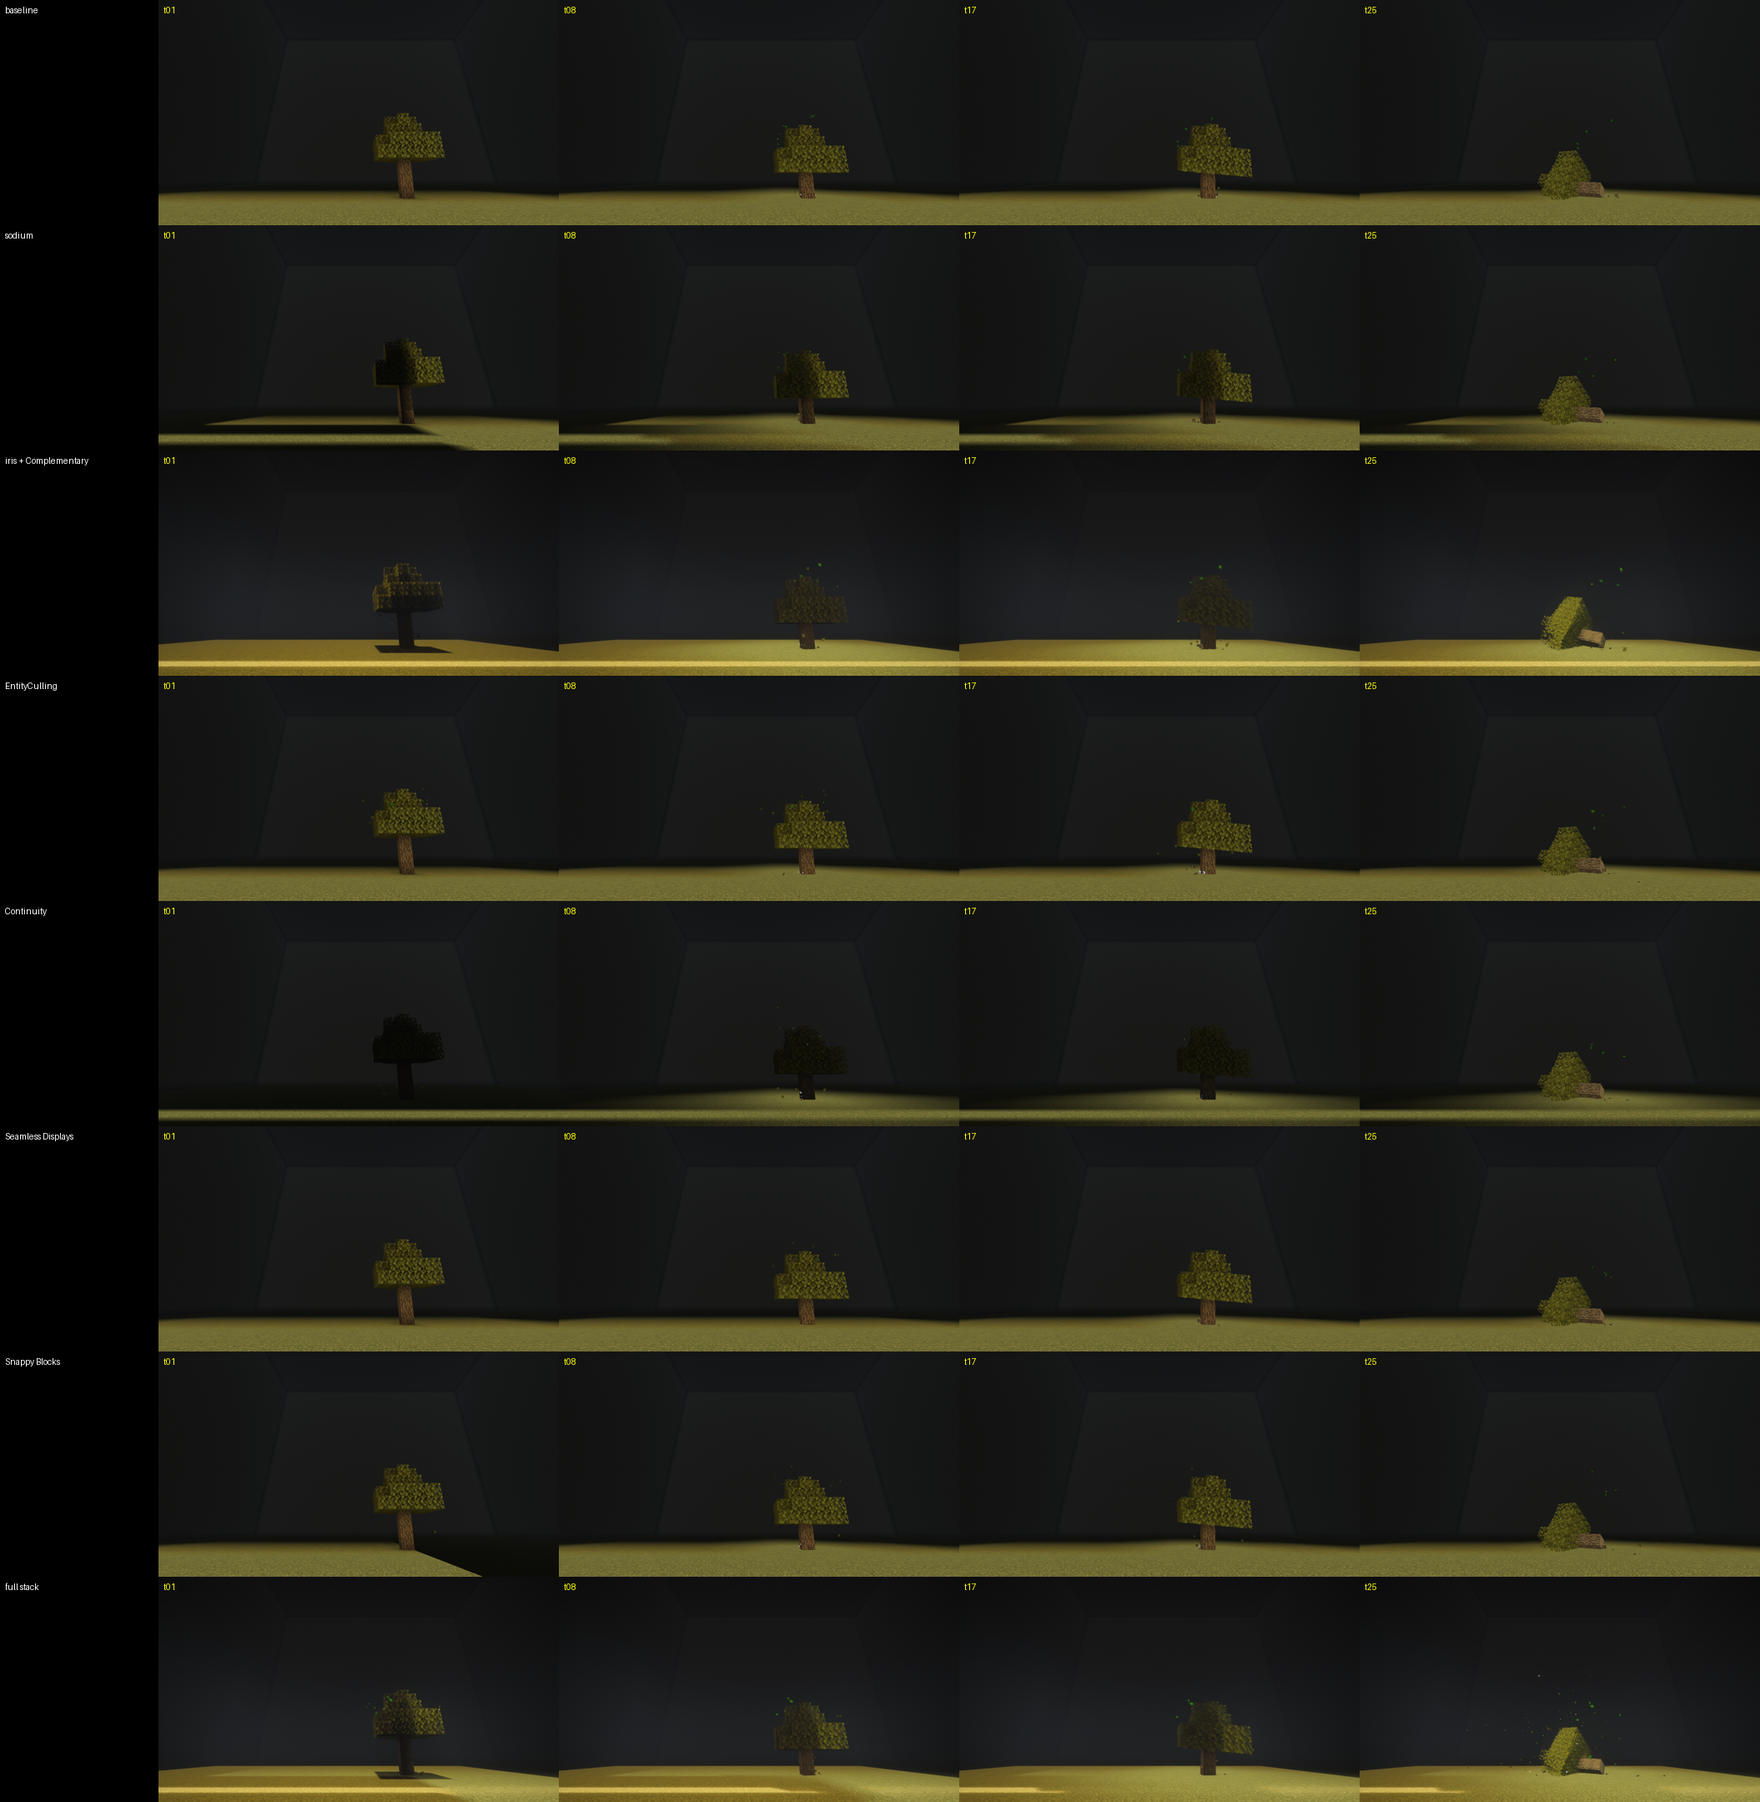
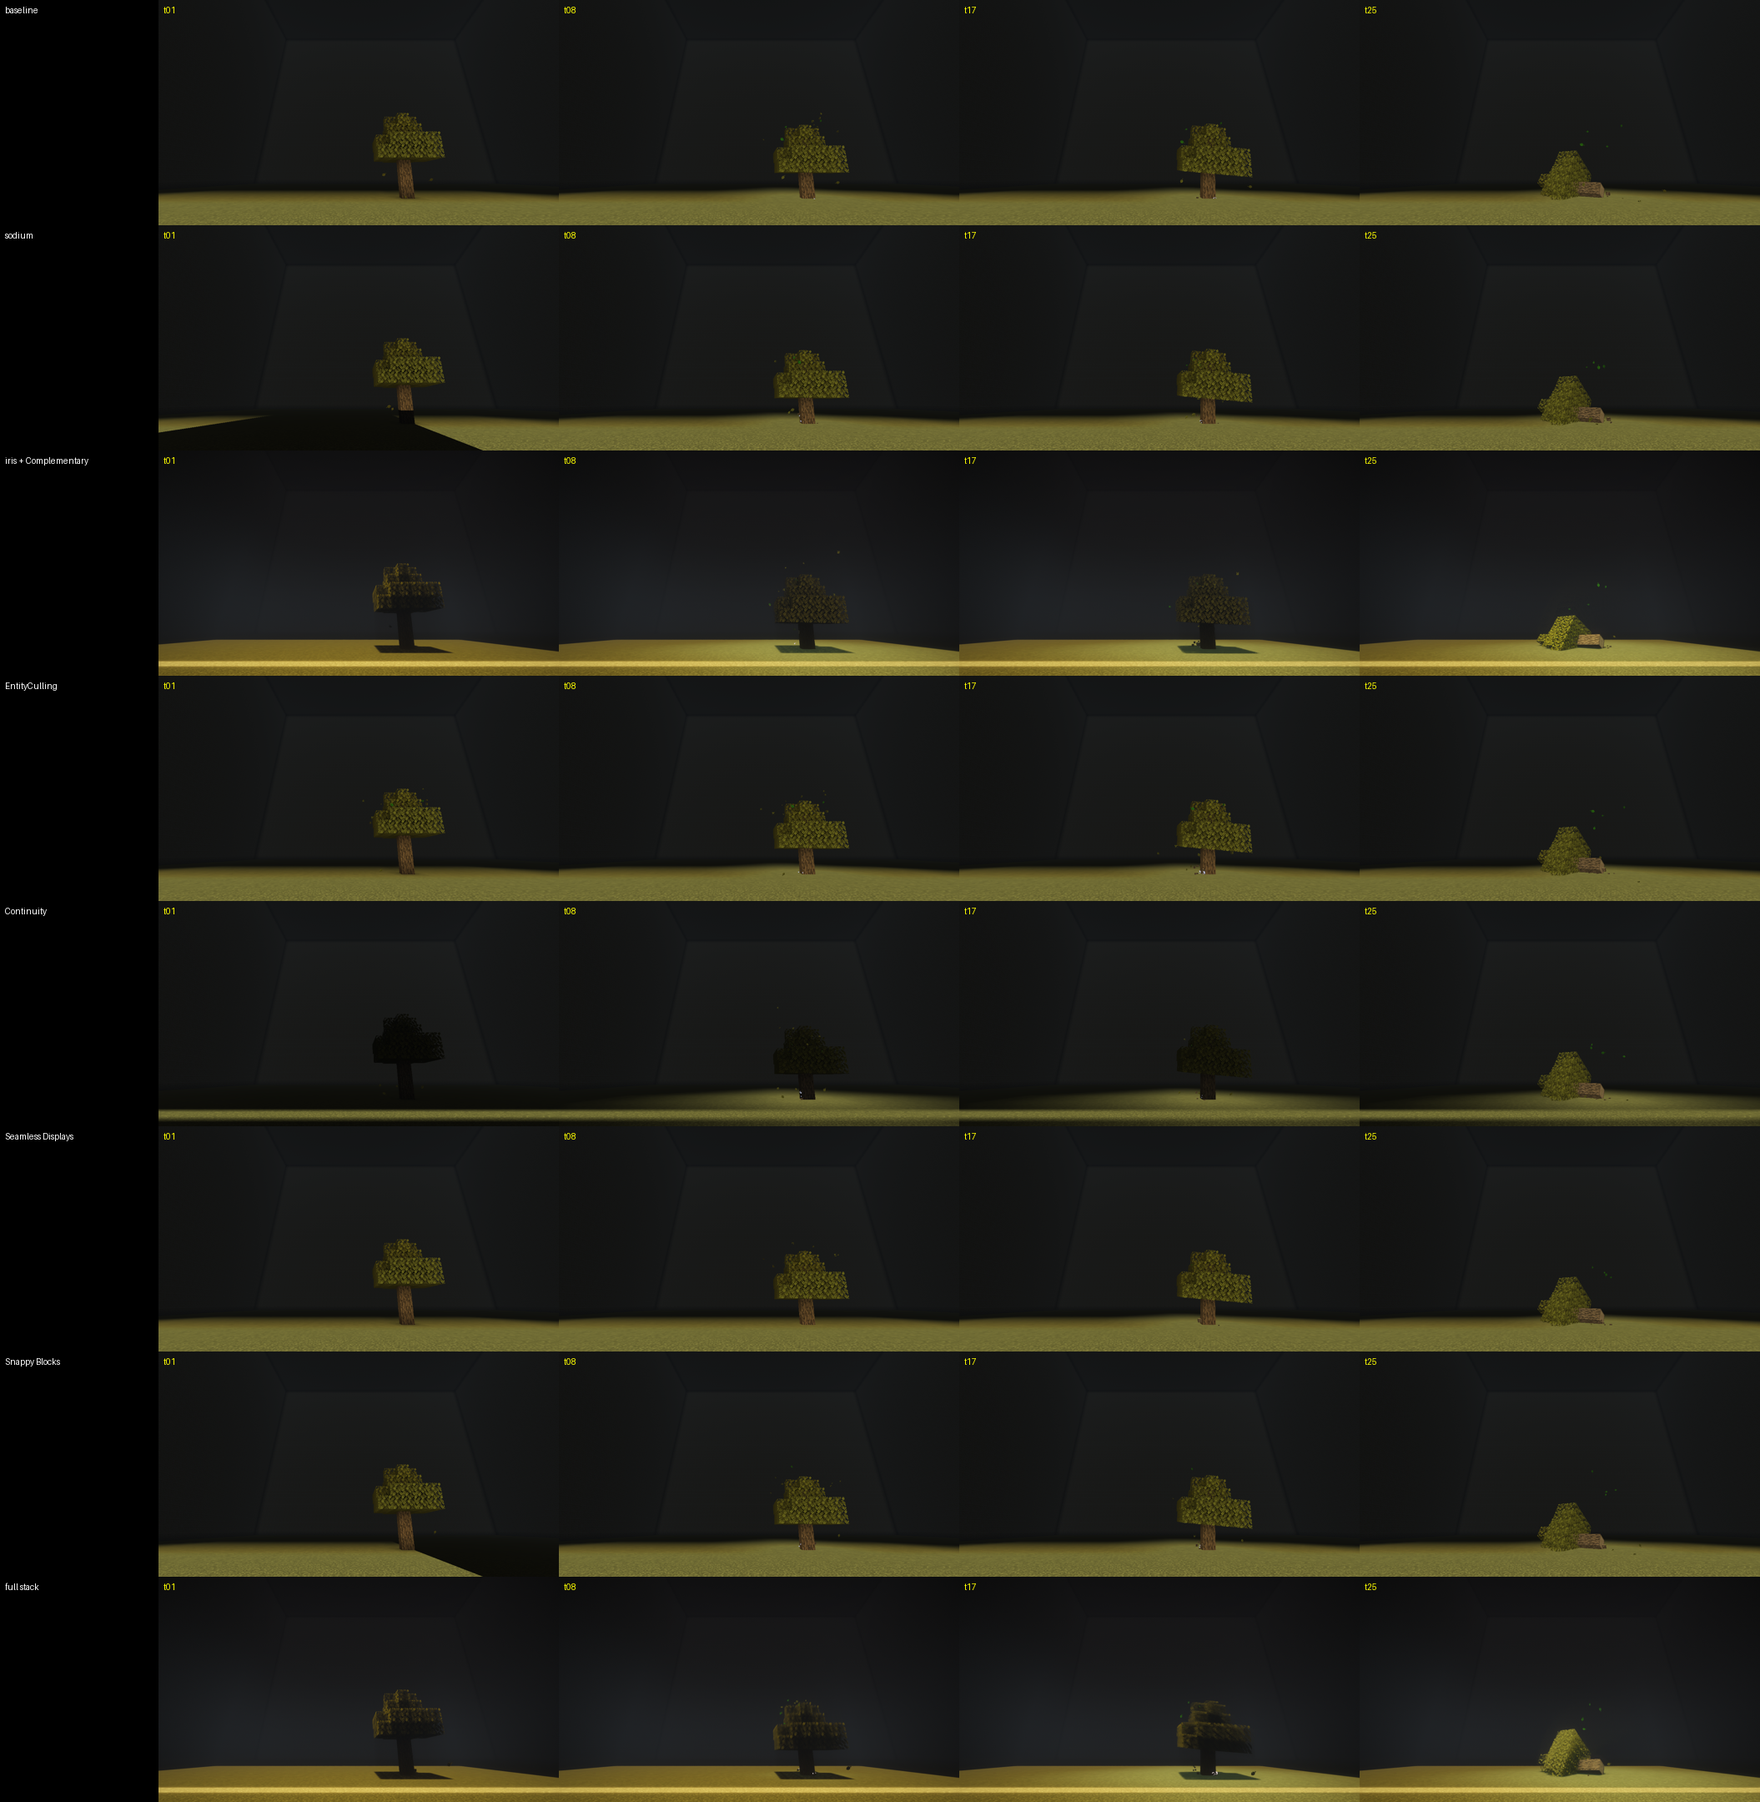
Iris: mesh casts a shadow (ShadowRenderer hook), block ids + entity-cutout type under shader packs; 0.0.28

diff --git a/src/main/java/io/github/profetgit/vanillatimber/client/compat/IrisCompat.java b/src/main/java/io/github/profetgit/vanillatimber/client/compat/IrisCompat.java
@@ -1,0 +1,96 @@
+package io.github.profetgit.vanillatimber.client.compat;
+
+import com.mojang.blaze3d.vertex.VertexConsumer;
+import io.github.profetgit.vanillatimber.Timber;
+import it.unimi.dsi.fastutil.objects.Object2IntMap;
+import java.lang.invoke.MethodHandle;
+import java.lang.invoke.MethodHandles;
+import java.lang.invoke.MethodType;
+import net.fabricmc.loader.api.FabricLoader;
+import net.minecraft.world.level.block.state.BlockState;
+
+/**
+ * Hands a shader pack the block id of each mesh block, the way Iris does for chunk meshes: with a pack on, buffers carry
+ * mc_Entity, so materials (leaves, bark, emissive blocks) treat the fall as the blocks it replaces. Reflective, so
+ * Timber has no Iris dependency (the mesh shadow hook is {@code mixin.compat.IrisShadowMixin}). Pattern from SeamlessDisplays.
+ */
+public final class IrisCompat {
+    private static MethodHandle begin, end, packInUse, shadows, idsGetter;
+    private static Class<?> sensitive;
+    private static boolean tried;
+    private static Object2IntMap<BlockState> ids;
+
+    private IrisCompat() {
+    }
+
+    /** Once per drawn pass: is a shader pack running, and its block ids. */
+    @SuppressWarnings("unchecked")
+    public static void frame() {
+        if (!tried) {
+            tried = true;
+            if (FabricLoader.getInstance().isModLoaded("iris")) {
+                try {
+                    MethodHandles.Lookup l = MethodHandles.publicLookup();
+                    sensitive = Class.forName("net.irisshaders.iris.vertices.BlockSensitiveBufferBuilder");
+                    begin = l.findVirtual(sensitive, "beginBlock", MethodType.methodType(void.class, int.class, byte.class, byte.class, int.class, int.class, int.class))
+                        .asType(MethodType.methodType(void.class, Object.class, int.class, byte.class, byte.class, int.class, int.class, int.class));
+                    end = l.findVirtual(sensitive, "endBlock", MethodType.methodType(void.class)).asType(MethodType.methodType(void.class, Object.class));
+                    Class<?> iris = Class.forName("net.irisshaders.iris.Iris");
+                    packInUse = l.findStatic(iris, "isPackInUseQuick", MethodType.methodType(boolean.class));
+                    shadows = l.findStatic(Class.forName("net.irisshaders.iris.shadows.ShadowRenderingState"), "areShadowsCurrentlyBeingRendered", MethodType.methodType(boolean.class));
+                    Class<?> settings = Class.forName("net.irisshaders.iris.shaderpack.materialmap.WorldRenderingSettings");
+                    Object instance = l.findStaticGetter(settings, "INSTANCE", settings).invoke();
+                    idsGetter = l.findVirtual(settings, "getBlockStateIds", MethodType.methodType(Object2IntMap.class)).bindTo(instance);
+                } catch (Throwable t) {
+                    Timber.LOG.warn("Iris block ids unavailable ({}); the mesh keeps an unknown block id under shader packs", t.toString());
+                    begin = null;
+                }
+            }
+        }
+        ids = null;
+        if (begin == null) return;
+        try {
+            if ((boolean) packInUse.invokeExact()) ids = (Object2IntMap<BlockState>) (Object) idsGetter.invoke();
+        } catch (Throwable t) {
+            begin = null;
+        }
+    }
+
+    /** A shader pack is running (as of the last {@link #frame}). */
+    public static boolean active() {
+        return ids != null;
+    }
+
+    public static boolean inShadowPass() {
+        if (ids == null) return false;
+        try {
+            return (boolean) shadows.invokeExact();
+        } catch (Throwable t) {
+            return false;
+        }
+    }
+
+    public static Object2IntMap<BlockState> ids() {
+        return ids;
+    }
+
+    public static boolean applies(VertexConsumer buffer) {
+        return ids != null && sensitive.isInstance(buffer);
+    }
+
+    public static void begin(VertexConsumer buffer, int id, int emission, int lx, int ly, int lz) {
+        try {
+            begin.invokeExact((Object) buffer, id, (byte) 0, (byte) emission, lx, ly, lz);
+        } catch (Throwable t) {
+            ids = null;
+        }
+    }
+
+    public static void end(VertexConsumer buffer) {
+        try {
+            end.invokeExact((Object) buffer);
+        } catch (Throwable t) {
+            ids = null;
+        }
+    }
+}

diff --git a/src/main/java/io/github/profetgit/vanillatimber/client/MeshFall.java b/src/main/java/io/github/profetgit/vanillatimber/client/MeshFall.java
@@ -1,11 +1,13 @@
 package io.github.profetgit.vanillatimber.client;
 
 import com.mojang.blaze3d.vertex.VertexConsumer;
+import io.github.profetgit.vanillatimber.client.compat.IrisCompat;
 import io.github.profetgit.vanillatimber.core.DrawnPose;
 import io.github.profetgit.vanillatimber.core.Layout;
 import io.github.profetgit.vanillatimber.core.Rig;
 import io.github.profetgit.vanillatimber.core.Timeline;
 import io.github.profetgit.vanillatimber.net.TreeFall;
+import it.unimi.dsi.fastutil.objects.Object2IntMap;
 import java.util.ArrayList;
 import java.util.HashMap;
 import java.util.List;
@@ -14,6 +16,7 @@ import net.minecraft.client.multiplayer.ClientLevel;
 import net.minecraft.client.renderer.texture.OverlayTexture;
 import net.minecraft.core.BlockPos;
 import net.minecraft.core.Direction;
+import net.minecraft.util.Mth;
 import net.minecraft.world.level.block.state.BlockState;
 import net.minecraft.world.phys.Vec3;
 import org.joml.Matrix3f;
@@ -41,6 +44,7 @@ final class MeshFall {
     final float[] cx, cy, cz, bl, sk;
     final int[] ring, light;
     final boolean[] leaf;
+    final BlockState[] states;
     final int blocks;
     /**
      * Ticks from a server frame's packets arriving to that frame's pose fully drawn by a vanilla client, on average. A
@@ -87,6 +91,7 @@ final class MeshFall {
         ring = new int[blocks];
         light = new int[blocks];
         leaf = new boolean[blocks];
+        states = new BlockState[blocks];
         int lo = 0, hi = 0;
         for (int i = 0; i < blocks; i++) {
             int wy = (msg.origin().getY() + msg.cells()[i * 4 + 1]) * 1000 - msg.py();
@@ -173,6 +178,7 @@ final class MeshFall {
             cz[i] = tz + c.z;
             ring[i] = k;
             leaf[i] = lf;
+            states[i] = state;
             int lit = lightAt(level, cell);
             bl[i] = Packed.block(lit);
             sk[i] = Packed.sky(lit);
@@ -414,10 +420,20 @@ final class MeshFall {
         @Override
         public void render(Matrix4f m, VertexConsumer vc) {
             long t0 = System.nanoTime();
+            Vector3f c = new Vector3f();
             float[] nr = fall.normals, sh = fall.shade;
             int[] lights = fall.light;
             float gx = ex, gy = ey, rw = w;
+            Object2IntMap<BlockState> ids = IrisCompat.applies(vc) ? IrisCompat.ids() : null;
+            int open = -1;
             for (int qi = 0; qi < quads; qi++) {
+                if (ids != null && block[qi] != open) {
+                    if (open >= 0) IrisCompat.end(vc);
+                    open = block[qi];
+                    BlockState st = fall.states[open];
+                    m.transformPosition(fall.cx[open], fall.cy[open], fall.cz[open], c);
+                    IrisCompat.begin(vc, ids.getOrDefault(st, -1), st.getLightEmission(), Mth.floor(c.x), Mth.floor(c.y), Mth.floor(c.z));
+                }
                 int d = dir[qi];
                 int path = lights[block[qi]], pu = path & 0xFFFF, pv = path >>> 16;
                 float nx = nr[d * 3], ny = nr[d * 3 + 1], nz = nr[d * 3 + 2];
@@ -440,6 +456,7 @@ final class MeshFall {
                         .setNormal(nx, ny, nz);
                 }
             }
+            if (open >= 0) IrisCompat.end(vc);
             ClientFalls.spent += System.nanoTime() - t0;
         }
     }

diff --git a/src/main/java/io/github/profetgit/vanillatimber/mixin/MixinPlugin.java b/src/main/java/io/github/profetgit/vanillatimber/mixin/MixinPlugin.java
@@ -1,0 +1,69 @@
+package io.github.profetgit.vanillatimber.mixin;
+
+import java.util.List;
+import java.util.Map;
+import java.util.Set;
+import org.objectweb.asm.tree.ClassNode;
+import org.objectweb.asm.tree.MethodNode;
+import org.spongepowered.asm.mixin.extensibility.IMixinConfigPlugin;
+import org.spongepowered.asm.mixin.extensibility.IMixinInfo;
+import org.spongepowered.asm.service.MixinService;
+
+/**
+ * Mixins into other mods (package {@code compat}) apply only when their target class exists and has a method with
+ * exactly the name and descriptor listed in {@link #METHODS}: a handler that doesn't match crashes the game even with
+ * require = 0, so a mismatch skips the mixin instead (pattern from Snappy Blocks).
+ */
+public final class MixinPlugin implements IMixinConfigPlugin {
+    private static final Map<String, String> METHODS = Map.of(
+        "IrisShadowMixin", "renderEntities(Lnet/irisshaders/iris/mixin/LevelRendererAccessor;Lnet/minecraft/client/renderer/entity/EntityRenderDispatcher;"
+            + "Lcom/mojang/blaze3d/vertex/PoseStack;FLnet/minecraft/client/renderer/culling/Frustum;DDD)I");
+
+    @Override
+    public void onLoad(String mixinPackage) {
+    }
+
+    @Override
+    public String getRefMapperConfig() {
+        return null;
+    }
+
+    @Override
+    public boolean shouldApplyMixin(String targetClassName, String mixinClassName) {
+        if (!mixinClassName.contains(".compat.")) return true;
+        ClassNode node;
+        try {
+            node = MixinService.getService().getBytecodeProvider().getClassNode(targetClassName);
+        } catch (Throwable absent) {
+            return false;
+        }
+        String name = mixinClassName.substring(mixinClassName.lastIndexOf('.') + 1);
+        String wanted = METHODS.get(name);
+        if (wanted == null) return true;
+        for (MethodNode m : node.methods) {
+            if ((m.name + m.desc).equals(wanted)) {
+                org.slf4j.LoggerFactory.getLogger("Timber").info("Timber: {} applies", name);
+                return true;
+            }
+        }
+        org.slf4j.LoggerFactory.getLogger("Timber").warn("Timber: {} skipped, {} has no {}", name, targetClassName, wanted);
+        return false;
+    }
+
+    @Override
+    public void acceptTargets(Set<String> myTargets, Set<String> otherTargets) {
+    }
+
+    @Override
+    public List<String> getMixins() {
+        return null;
+    }
+
+    @Override
+    public void preApply(String targetClassName, ClassNode targetClass, String mixinClassName, IMixinInfo mixinInfo) {
+    }
+
+    @Override
+    public void postApply(String targetClassName, ClassNode targetClass, String mixinClassName, IMixinInfo mixinInfo) {
+    }
+}

diff --git a/src/main/java/io/github/profetgit/vanillatimber/mixin/compat/IrisShadowMixin.java b/src/main/java/io/github/profetgit/vanillatimber/mixin/compat/IrisShadowMixin.java
@@ -1,0 +1,36 @@
+package io.github.profetgit.vanillatimber.mixin.compat;
+
+import org.spongepowered.asm.mixin.Mixin;
+//? if >=1.21.2 {
+import com.llamalad7.mixinextras.sugar.Local;
+import com.mojang.blaze3d.vertex.PoseStack;
+import io.github.profetgit.vanillatimber.client.ClientFalls;
+import io.github.profetgit.vanillatimber.client.RenderPass;
+import net.minecraft.client.renderer.SubmitNodeStorage;
+import net.minecraft.world.phys.Vec3;
+import org.spongepowered.asm.mixin.Final;
+import org.spongepowered.asm.mixin.Shadow;
+import org.spongepowered.asm.mixin.injection.At;
+import org.spongepowered.asm.mixin.injection.Inject;
+import org.spongepowered.asm.mixin.injection.callback.CallbackInfoReturnable;
+//?}
+
+/**
+ * Iris's shadow pass never calls {@code LevelRenderer.submitEntities}: it submits entities into its own storage from the
+ * sun's camera. The falls join them here, so the mesh casts a shadow like the standing tree did. Applied only when
+ * Iris has {@code renderEntities} with exactly the descriptor listed in {@code MixinPlugin}.
+ */
+@Mixin(targets = "net.irisshaders.iris.shadows.ShadowRenderer")
+abstract class IrisShadowMixin {
+//? if >=1.21.2 {
+    @Shadow
+    @Final
+    private SubmitNodeStorage submitNodeStorage;
+
+    @Inject(method = "renderEntities", at = @At("RETURN"), require = 0)
+    private void vanilla_timber$shadowFalls(CallbackInfoReturnable<Integer> cir, @Local(argsOnly = true) PoseStack ps,
+        @Local(argsOnly = true, ordinal = 0) double cx, @Local(argsOnly = true, ordinal = 1) double cy, @Local(argsOnly = true, ordinal = 2) double cz) {
+        ClientFalls.submit(new RenderPass(ps, new Vec3(cx, cy, cz), submitNodeStorage));
+    }
+//?}
+}

diff --git a/src/main/java/io/github/profetgit/vanillatimber/client/RenderPass.java b/src/main/java/io/github/profetgit/vanillatimber/client/RenderPass.java
@@ -12,6 +12,8 @@ import net.minecraft.client.renderer.SubmitNodeCollector;
 import net.minecraft.client.renderer.rendertype.RenderType;
 import net.minecraft.client.renderer.rendertype.RenderTypes;
 import net.minecraft.client.renderer.state.level.LevelRenderState;
+import net.minecraft.client.renderer.texture.TextureAtlas;
+import io.github.profetgit.vanillatimber.client.compat.IrisCompat;
 import net.minecraft.world.level.CardinalLighting;
 //?} else {
 /*import java.util.LinkedHashSet;
@@ -43,6 +45,13 @@ public final class RenderPass {
         this.out = out;
     }
 
+    /** A pass into another collector with its own camera: Iris's shadow pass submits entities from the sun. */
+    public RenderPass(PoseStack ps, Vec3 cam, SubmitNodeCollector out) {
+        this.ps = ps;
+        this.cam = cam;
+        this.out = out;
+    }
+
     // the six face values by Direction.ordinal; byFace, not the record fields: Iris patches it when a shader pack turns vanilla shading off
     float[] shades(ClientLevel level) {
         CardinalLighting cl = level.cardinalLighting();
@@ -66,6 +75,7 @@ public final class RenderPass {
     }
 
     private static RenderType type(Layer layer) {
+        if (IrisCompat.active() && layer != Layer.TRANSLUCENT) return RenderTypes.itemCutout(TextureAtlas.LOCATION_BLOCKS);
         return switch (layer) {
             case SOLID -> RenderTypes.solidMovingBlock();
             case CUTOUT, CUTOUT_MIPPED -> RenderTypes.cutoutMovingBlock();

diff --git a/src/main/java/io/github/profetgit/vanillatimber/client/ClientFalls.java b/src/main/java/io/github/profetgit/vanillatimber/client/ClientFalls.java
@@ -3,6 +3,7 @@ package io.github.profetgit.vanillatimber.client;
 import io.github.profetgit.vanillatimber.net.TreeFall;
 import java.util.ArrayList;
 import java.util.List;
+import io.github.profetgit.vanillatimber.client.compat.IrisCompat;
 import net.minecraft.client.Minecraft;
 import net.minecraft.client.multiplayer.ClientLevel;
 
@@ -46,6 +47,7 @@ public final class ClientFalls {
         Minecraft mc = Minecraft.getInstance();
         ClientLevel level = mc.level;
         if (level == null) return;
+        IrisCompat.frame();
         double t = ticks + RenderPass.partial(mc);
         // a second pass in the same frame (a shader pack's shadow pass) keeps the frame's interval
         if (Double.isNaN(lastFrame) || t < lastFrame) frameDt = 1.0 / 3;
